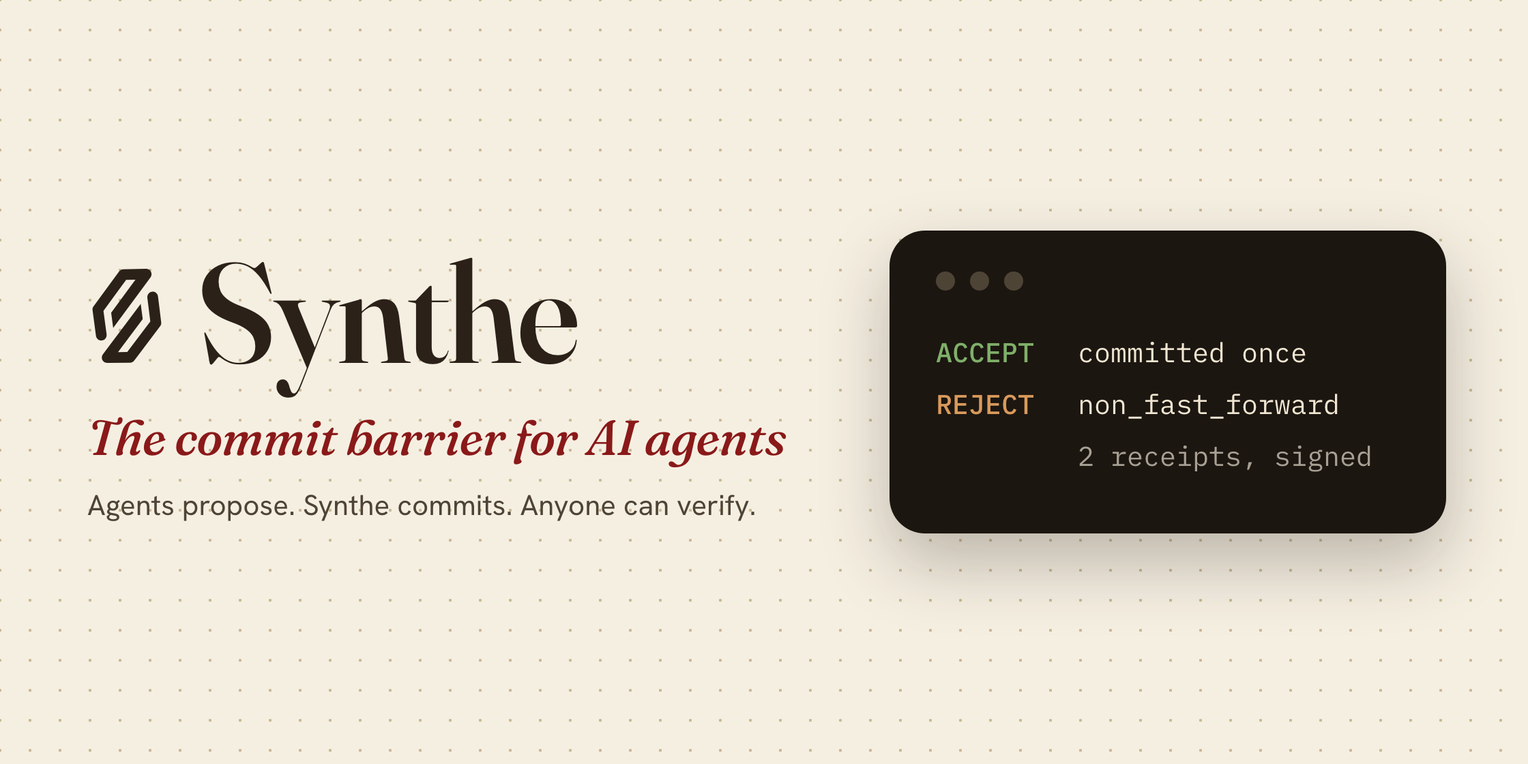
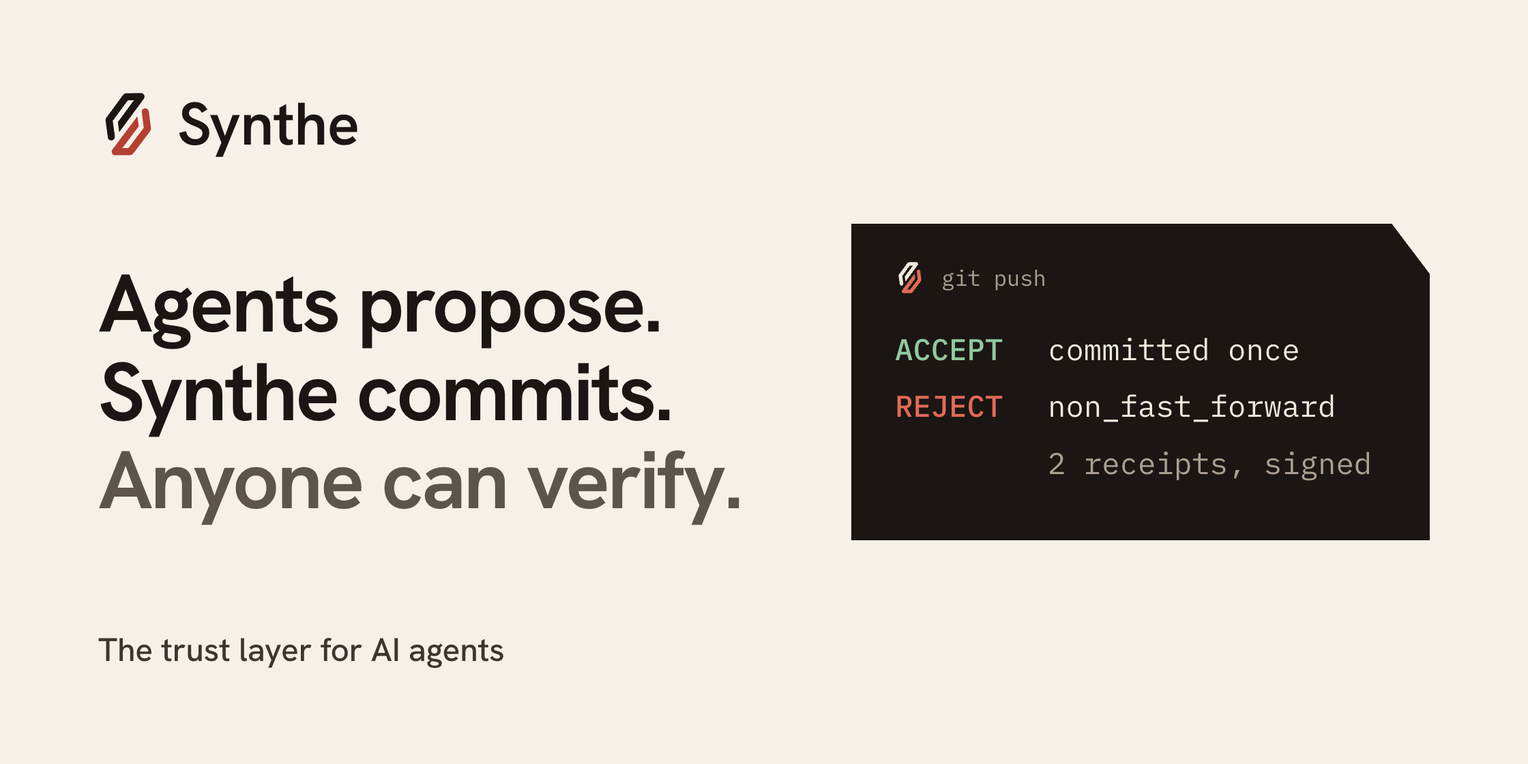
Site: new social card, and "trust layer for AI agents" as the category line
Social card
- og-image.png and tools/og-image.html redrawn in the new design system: cream
  background, two-color mark (ink top, coral bottom), the motto as three lines
  of type, and an ink receipt card with one corner cut at the slot angle.

Category line
- "The commit barrier for AI agents" becomes "The trust layer for AI agents" in
  the footer on every page, homepage title, description and structured data,
  the card's alt text, llms.txt, llms-full.txt, status.html, the playbook and
  tools/apply_chrome.py.
- "Commit barrier" stays as the name of the mechanism (docs section, race demo,
  how-it-works description, quiz). The changelog entry in log.html is history
  and is unchanged apart from its footer.

check_site.py: 0 errors on 16 pages; facts check passes.

diff --git a/tools/og-image.html b/tools/og-image.html
@@ -1,48 +1,47 @@
 <!doctype html>
-<html lang="en">
+<html lang="en" data-theme="light">
 <head>
 <meta charset="utf-8" />
 <meta name="robots" content="noindex" />
 <title>Social card source</title>
-<!-- Source for /og-image.png. Render at 1120x560 CSS px with device scale 2:
+<!-- Source for /og-image.png. Render at 1120x560 CSS px with device scale 2 against the local server
+     (python3 tools/serve.py), so the self-hosted fonts and the site's tokens load:
      "/Applications/Google Chrome.app/Contents/MacOS/Google Chrome" --headless=new --hide-scrollbars \
        --window-size=1120,560 --force-device-scale-factor=2 --screenshot=og-image.png \
-       http://localhost:8790/tools/og-image.html -->
+       http://localhost:8790/tools/og-image.html
+     Two colors carry meaning: ink is the agent's half of the mark, coral is yours. The card uses the site's
+     light tokens (--bg, --ink, --muted, --agent, --human) and the dark mode's status colors on the ink card. -->
 <link rel="stylesheet" href="/site.css?v=27f2e1ec" />
 <style>
   html, body { margin: 0; width: 1120px; height: 560px; overflow: hidden; }
-  body {
-    background-color: #f5efe2;
-    background-image: radial-gradient(#c9b994 1px, transparent 1.2px);
-    background-size: 22px 22px;
-    background-position: 11px 11px;
-    color: #2b2118;
-    font-family: "Hanken Grotesk", sans-serif;
-    -webkit-font-smoothing: antialiased;
-  }
-  .card { position: absolute; inset: 0; display: grid; grid-template-columns: 548px 1fr; align-items: center; padding: 0 60px; gap: 44px; }
-  .lockup { display: flex; align-items: center; gap: 18px; font-family: "Fraunces", Georgia, serif; font-weight: 560; font-size: 104px; line-height: 1; letter-spacing: -0.02em; }
-  .lockup svg { width: 66px; height: 70px; flex: none; margin-top: 6px; }
-  .tagline { margin: 18px 0 0 4px; font-family: "Fraunces", Georgia, serif; font-style: italic; font-weight: 500; font-size: 36px; color: #8a1919; letter-spacing: -0.01em; }
-  .motto { margin: 14px 0 0 4px; font-size: 21px; color: #4e4436; }
-  .term { background: #1c1611; border-radius: 26px; padding: 30px 34px 38px; box-shadow: 0 22px 50px rgba(43, 33, 24, 0.28); font-family: "IBM Plex Mono", monospace; font-size: 20px; line-height: 1.9; color: #f0e6d2; }
-  .dots { display: flex; gap: 11px; margin-bottom: 26px; }
-  .dots i { width: 14px; height: 14px; border-radius: 50%; background: #4e4436; }
-  .row { display: grid; grid-template-columns: 104px 1fr; white-space: nowrap; }
-  .ok { color: #7fb069; font-weight: 500; }
-  .no { color: #d99a5b; font-weight: 500; }
-  .dim { color: #a8a094; }
+  body { background: var(--bg); color: var(--ink); font-family: var(--sans); -webkit-font-smoothing: antialiased; }
+  .card { position: absolute; inset: 0; display: grid; grid-template-columns: 1fr 424px; align-items: center; padding: 0 72px; gap: 56px; }
+  .left { display: flex; flex-direction: column; height: 424px; justify-content: space-between; }
+  .lockup { display: flex; align-items: center; gap: 14px; font-weight: 600; font-size: 44px; line-height: 1; letter-spacing: -0.01em; }
+  .lockup svg { width: 44px; height: 46px; flex: none; }
+  h1 { margin: 0; font-weight: 600; font-size: 60px; line-height: 1.08; letter-spacing: -0.03em; }
+  h1 span { color: var(--muted); }
+  .cat { margin: 0; font-size: 24px; font-weight: 500; letter-spacing: -0.005em; color: var(--ink-soft); }
+  .term { background: #1b1613; color: #f2eadf; padding: 28px 32px 36px; font-family: var(--mono); font-size: 22px; line-height: 1.9;
+    clip-path: polygon(0 0, calc(100% - 28px) 0, 100% 37px, 100% 100%, 0 100%); }
+  .head { display: flex; align-items: center; gap: 12px; margin-bottom: 20px; font-size: 16px; color: #ab9f92; line-height: 1; }
+  .head svg { width: 22px; height: 23px; }
+  .head svg .a { fill: #f2eadf; } .head svg .b { fill: #e06a57; }
+  .row { display: grid; grid-template-columns: 112px 1fr; white-space: nowrap; }
+  .ok { color: #8fc9a0; font-weight: 500; }
+  .no { color: #e06a57; font-weight: 500; }
+  .dim { color: #ab9f92; }
 </style>
 </head>
 <body>
   <div class="card">
-    <div>
-      <div class="lockup"><svg viewBox="0 0 275 290" aria-hidden="true"><g fill="currentColor"><path d="M 64.894 261.544 155.983 140.236 179.779 108.392 185.927 154.879 110.451 255.747 138.531 255.614 209.078 162.002 200.172 91.235 C 199.408 85.166 200.816 79.553 205.121 75.642 209.828 71.368 216.229 70.134 221.964 72.262 228.322 74.621 231.877 79.955 232.693 86.566 L 242.414 165.286 C 242.975 169.836 241.259 173.994 238.587 177.533 L 160.448 281.001 C 157.254 285.231 152.542 288.273 147.064 288.315 L 78.043 288.836 C 73.418 288.871 69.030 287.434 65.849 284.248 59.453 277.843 59.605 268.588 64.894 261.544"/><path d="M 135.339 35.105 119.916 56.166 65.976 129.689 75.562 201.351 C 76.765 210.340 71.240 218.418 62.432 220.185 53.895 221.859 45.295 216.549 43.298 207.725 L 32.651 127.593 C 32.196 124.170 32.576 120.045 34.689 117.171 L 83.489 50.805 113.299 10.126 C 116.532 5.714 121.004 2.677 126.682 2.564 L 196.616 1.166 C 203.544 1.028 209.471 5.555 211.787 11.932 213.849 17.594 212.818 23.577 209.138 28.271 L 95.676 182.179 89.465 135.537 144.852 60.334 163.745 34.614 Z"/></g></svg>Synthe</div>
-      <p class="tagline">The commit barrier for AI agents</p>
-      <p class="motto">Agents propose. Synthe commits. Anyone can verify.</p>
+    <div class="left">
+      <div class="lockup"><svg class="mark" viewBox="0 0 275 290" aria-hidden="true"><path class="half a" d="M 135.339 35.105 119.916 56.166 65.976 129.689 75.562 201.351 C 76.765 210.340 71.240 218.418 62.432 220.185 53.895 221.859 45.295 216.549 43.298 207.725 L 32.651 127.593 C 32.196 124.170 32.576 120.045 34.689 117.171 L 83.489 50.805 113.299 10.126 C 116.532 5.714 121.004 2.677 126.682 2.564 L 196.616 1.166 C 203.544 1.028 209.471 5.555 211.787 11.932 213.849 17.594 212.818 23.577 209.138 28.271 L 95.676 182.179 89.465 135.537 144.852 60.334 163.745 34.614 Z"/><path class="half b" d="M 64.894 261.544 155.983 140.236 179.779 108.392 185.927 154.879 110.451 255.747 138.531 255.614 209.078 162.002 200.172 91.235 C 199.408 85.166 200.816 79.553 205.121 75.642 209.828 71.368 216.229 70.134 221.964 72.262 228.322 74.621 231.877 79.955 232.693 86.566 L 242.414 165.286 C 242.975 169.836 241.259 173.994 238.587 177.533 L 160.448 281.001 C 157.254 285.231 152.542 288.273 147.064 288.315 L 78.043 288.836 C 73.418 288.871 69.030 287.434 65.849 284.248 59.453 277.843 59.605 268.588 64.894 261.544"/></svg>Synthe</div>
+      <h1>Agents propose.<br>Synthe commits.<br><span>Anyone can verify.</span></h1>
+      <p class="cat">The trust layer for AI agents</p>
     </div>
     <div class="term" aria-hidden="true">
-      <div class="dots"><i></i><i></i><i></i></div>
+      <div class="head"><svg class="mark" viewBox="0 0 275 290"><path class="half a" d="M 135.339 35.105 119.916 56.166 65.976 129.689 75.562 201.351 C 76.765 210.340 71.240 218.418 62.432 220.185 53.895 221.859 45.295 216.549 43.298 207.725 L 32.651 127.593 C 32.196 124.170 32.576 120.045 34.689 117.171 L 83.489 50.805 113.299 10.126 C 116.532 5.714 121.004 2.677 126.682 2.564 L 196.616 1.166 C 203.544 1.028 209.471 5.555 211.787 11.932 213.849 17.594 212.818 23.577 209.138 28.271 L 95.676 182.179 89.465 135.537 144.852 60.334 163.745 34.614 Z"/><path class="half b" d="M 64.894 261.544 155.983 140.236 179.779 108.392 185.927 154.879 110.451 255.747 138.531 255.614 209.078 162.002 200.172 91.235 C 199.408 85.166 200.816 79.553 205.121 75.642 209.828 71.368 216.229 70.134 221.964 72.262 228.322 74.621 231.877 79.955 232.693 86.566 L 242.414 165.286 C 242.975 169.836 241.259 173.994 238.587 177.533 L 160.448 281.001 C 157.254 285.231 152.542 288.273 147.064 288.315 L 78.043 288.836 C 73.418 288.871 69.030 287.434 65.849 284.248 59.453 277.843 59.605 268.588 64.894 261.544"/></svg>git push</div>
       <div class="row"><span class="ok">ACCEPT</span><span>committed once</span></div>
       <div class="row"><span class="no">REJECT</span><span>non_fast_forward</span></div>
       <div class="row"><span></span><span class="dim">2 receipts, signed</span></div>

diff --git a/index.html b/index.html
@@ -5,18 +5,18 @@
     <meta http-equiv="Content-Security-Policy" content="default-src 'self'; script-src 'self' 'unsafe-inline'; style-src 'self' 'unsafe-inline'; img-src 'self' data:; font-src 'self'; connect-src 'self' https://formspree.io; form-action 'self' https://formspree.io mailto:; base-uri 'self'; object-src 'none'; upgrade-insecure-requests" />
     <meta name="viewport" content="width=device-width, initial-scale=1, viewport-fit=cover" />
     <meta name="color-scheme" content="light dark" />
-    <meta name="description" content="Synthe is the commit barrier for AI agents. Agents propose, you approve, and Synthe commits exactly that change, once, with a signed receipt anyone can verify." />
+    <meta name="description" content="Synthe is the trust layer for AI agents. Agents propose, you approve, and Synthe commits exactly that change, once, with a signed receipt anyone can verify." />
     <link rel="canonical" href="https://synthe.live/" />
     <link rel="icon" href="/favicon.svg" type="image/svg+xml" />
     <link rel="icon" href="/favicon-32x32.png" type="image/png" sizes="32x32" />
     <link rel="apple-touch-icon" href="/apple-touch-icon.png" />
     <title>Synthe: let AI agents ship without the keys</title>
-    <meta property="og:title" content="Synthe: the commit barrier for AI agents" />
+    <meta property="og:title" content="Synthe: the trust layer for AI agents" />
     <meta property="og:description" content="Agents propose. Synthe commits. Anyone can verify. Your agents never hold the keys." />
     <meta property="og:image" content="https://synthe.live/og-image.png" />
     <meta property="og:image:width" content="2240" />
     <meta property="og:image:height" content="1120" />
-    <meta property="og:image:alt" content="Synthe: the commit barrier for AI agents. A receipt for every allow and every deny." />
+    <meta property="og:image:alt" content="Synthe: the trust layer for AI agents. A receipt for every allow and every deny." />
     <meta property="og:url" content="https://synthe.live/" />
     <meta property="og:type" content="website" />
     <meta property="og:site_name" content="Synthe" />
@@ -32,7 +32,7 @@
       "url": "https://synthe.live/",
       "logo": "https://synthe.live/apple-touch-icon.png",
       "email": "rohansiddam@synthe.live",
-      "description": "The commit barrier for AI agents. Agents propose. Synthe commits. Anyone can verify.",
+      "description": "The trust layer for AI agents. Agents propose. Synthe commits. Anyone can verify.",
       "founder": [
         {
           "@type": "Person",
@@ -482,7 +482,7 @@ cd ~/repo &amp;&amp; openclaw tui</code><button class="copy" type="button"><svg 
     </main>
       <footer class="site-foot">
         <p class="footer-brand"><svg class="footer-logo" viewBox="0 0 275 290" aria-hidden="true"><path class="a" d="M 135.339 35.105 119.916 56.166 65.976 129.689 75.562 201.351 C 76.765 210.340 71.240 218.418 62.432 220.185 53.895 221.859 45.295 216.549 43.298 207.725 L 32.651 127.593 C 32.196 124.170 32.576 120.045 34.689 117.171 L 83.489 50.805 113.299 10.126 C 116.532 5.714 121.004 2.677 126.682 2.564 L 196.616 1.166 C 203.544 1.028 209.471 5.555 211.787 11.932 213.849 17.594 212.818 23.577 209.138 28.271 L 95.676 182.179 89.465 135.537 144.852 60.334 163.745 34.614 Z"/><path class="b" d="M 64.894 261.544 155.983 140.236 179.779 108.392 185.927 154.879 110.451 255.747 138.531 255.614 209.078 162.002 200.172 91.235 C 199.408 85.166 200.816 79.553 205.121 75.642 209.828 71.368 216.229 70.134 221.964 72.262 228.322 74.621 231.877 79.955 232.693 86.566 L 242.414 165.286 C 242.975 169.836 241.259 173.994 238.587 177.533 L 160.448 281.001 C 157.254 285.231 152.542 288.273 147.064 288.315 L 78.043 288.836 C 73.418 288.871 69.030 287.434 65.849 284.248 59.453 277.843 59.605 268.588 64.894 261.544"/></svg>Synthe</p>
-        <p class="footer-line">The commit barrier for AI agents. Agents propose. You approve. Synthe commits, and anyone can verify the receipt.</p>
+        <p class="footer-line">The trust layer for AI agents. Agents propose. You approve. Synthe commits, and anyone can verify the receipt.</p>
         <nav class="footer-nav" aria-label="Footer">
           <a href="/how.html">How it works</a>
           <a href="/status.html">Security and limits</a>

diff --git a/status.html b/status.html
@@ -119,7 +119,7 @@
 
         <h2 id="status">Project <em>status</em></h2>
         <ul class="facts">
-          <li><span class="k">Stage</span><span class="v"><strong>Early.</strong> Synthe is the commit barrier for AI agents. Its checker, integrations and commit broker are published at <a class="textlink" href="https://github.com/rohansiddam/Synthe">github.com/rohansiddam/Synthe</a>. The spec, checker, clients and integrations are open source under Apache-2.0. The commit broker is source-available under FSL-1.1 and in beta, with design partners helping shape it (<a class="textlink" href="https://github.com/rohansiddam/Synthe/blob/main/LICENSING.md">how it's licensed</a>).</span></li>
+          <li><span class="k">Stage</span><span class="v"><strong>Early.</strong> Synthe is the trust layer for AI agents. Its checker, integrations and commit broker are published at <a class="textlink" href="https://github.com/rohansiddam/Synthe">github.com/rohansiddam/Synthe</a>. The spec, checker, clients and integrations are open source under Apache-2.0. The commit broker is source-available under FSL-1.1 and in beta, with design partners helping shape it (<a class="textlink" href="https://github.com/rohansiddam/Synthe/blob/main/LICENSING.md">how it's licensed</a>).</span></li>
           <li><span class="k">Public today</span><span class="v">The checker, v<span data-fact="checker_version">0.5</span>: signed handoffs, approvals that pin their target, pinned evidence, wait-for dependencies, exclusive paths, and an exactly-once claim ledger. <span data-fact="tests_passed">753</span> public tests pass.</span></li>
           <li><span class="k">Public beta</span><span class="v">The commit broker, public since October 7, 2026. It holds the credentials, re-checks each action at the moment of commit, pushes with compare-and-swap, and signs a receipt for every allow and every deny. <code>git_push</code> ships first.</span></li>
           <li><span class="k">Proven in beta</span><span class="v">On <span data-fact="beta_verified_date">October 7, 2026</span>, on a real Mac with real GitHub: the broker ran as its own hidden user and the agent in its own account with no GitHub access, and the setup check passed all <span data-fact="beta_doctor_checks">8</span> of its checks. A live red team of <span data-fact="beta_redteam_attacks">33</span> attacks from the agent's account was refused or contained (<span data-fact="beta_redteam_refused">33</span> of <span data-fact="beta_redteam_attacks">33</span>), each refusal with a signed receipt.</span></li>
@@ -165,7 +165,7 @@
       </main>
       <footer class="site-foot">
         <p class="footer-brand"><svg class="footer-logo" viewBox="0 0 275 290" aria-hidden="true"><path class="a" d="M 135.339 35.105 119.916 56.166 65.976 129.689 75.562 201.351 C 76.765 210.340 71.240 218.418 62.432 220.185 53.895 221.859 45.295 216.549 43.298 207.725 L 32.651 127.593 C 32.196 124.170 32.576 120.045 34.689 117.171 L 83.489 50.805 113.299 10.126 C 116.532 5.714 121.004 2.677 126.682 2.564 L 196.616 1.166 C 203.544 1.028 209.471 5.555 211.787 11.932 213.849 17.594 212.818 23.577 209.138 28.271 L 95.676 182.179 89.465 135.537 144.852 60.334 163.745 34.614 Z"/><path class="b" d="M 64.894 261.544 155.983 140.236 179.779 108.392 185.927 154.879 110.451 255.747 138.531 255.614 209.078 162.002 200.172 91.235 C 199.408 85.166 200.816 79.553 205.121 75.642 209.828 71.368 216.229 70.134 221.964 72.262 228.322 74.621 231.877 79.955 232.693 86.566 L 242.414 165.286 C 242.975 169.836 241.259 173.994 238.587 177.533 L 160.448 281.001 C 157.254 285.231 152.542 288.273 147.064 288.315 L 78.043 288.836 C 73.418 288.871 69.030 287.434 65.849 284.248 59.453 277.843 59.605 268.588 64.894 261.544"/></svg>Synthe</p>
-        <p class="footer-line">The commit barrier for AI agents. Agents propose. You approve. Synthe commits, and anyone can verify the receipt.</p>
+        <p class="footer-line">The trust layer for AI agents. Agents propose. You approve. Synthe commits, and anyone can verify the receipt.</p>
         <nav class="footer-nav" aria-label="Footer">
           <a href="/how.html">How it works</a>
           <a href="/status.html">Security and limits</a>

diff --git a/404.html b/404.html
@@ -131,7 +131,7 @@
       </main>
       <footer class="site-foot">
         <p class="footer-brand"><svg class="footer-logo" viewBox="0 0 275 290" aria-hidden="true"><path class="a" d="M 135.339 35.105 119.916 56.166 65.976 129.689 75.562 201.351 C 76.765 210.340 71.240 218.418 62.432 220.185 53.895 221.859 45.295 216.549 43.298 207.725 L 32.651 127.593 C 32.196 124.170 32.576 120.045 34.689 117.171 L 83.489 50.805 113.299 10.126 C 116.532 5.714 121.004 2.677 126.682 2.564 L 196.616 1.166 C 203.544 1.028 209.471 5.555 211.787 11.932 213.849 17.594 212.818 23.577 209.138 28.271 L 95.676 182.179 89.465 135.537 144.852 60.334 163.745 34.614 Z"/><path class="b" d="M 64.894 261.544 155.983 140.236 179.779 108.392 185.927 154.879 110.451 255.747 138.531 255.614 209.078 162.002 200.172 91.235 C 199.408 85.166 200.816 79.553 205.121 75.642 209.828 71.368 216.229 70.134 221.964 72.262 228.322 74.621 231.877 79.955 232.693 86.566 L 242.414 165.286 C 242.975 169.836 241.259 173.994 238.587 177.533 L 160.448 281.001 C 157.254 285.231 152.542 288.273 147.064 288.315 L 78.043 288.836 C 73.418 288.871 69.030 287.434 65.849 284.248 59.453 277.843 59.605 268.588 64.894 261.544"/></svg>Synthe</p>
-        <p class="footer-line">The commit barrier for AI agents. Agents propose. You approve. Synthe commits, and anyone can verify the receipt.</p>
+        <p class="footer-line">The trust layer for AI agents. Agents propose. You approve. Synthe commits, and anyone can verify the receipt.</p>
         <nav class="footer-nav" aria-label="Footer">
           <a href="/how.html">How it works</a>
           <a href="/status.html">Security and limits</a>

diff --git a/anatomy.html b/anatomy.html
@@ -222,7 +222,7 @@
       </main>
       <footer class="site-foot">
         <p class="footer-brand"><svg class="footer-logo" viewBox="0 0 275 290" aria-hidden="true"><path class="a" d="M 135.339 35.105 119.916 56.166 65.976 129.689 75.562 201.351 C 76.765 210.340 71.240 218.418 62.432 220.185 53.895 221.859 45.295 216.549 43.298 207.725 L 32.651 127.593 C 32.196 124.170 32.576 120.045 34.689 117.171 L 83.489 50.805 113.299 10.126 C 116.532 5.714 121.004 2.677 126.682 2.564 L 196.616 1.166 C 203.544 1.028 209.471 5.555 211.787 11.932 213.849 17.594 212.818 23.577 209.138 28.271 L 95.676 182.179 89.465 135.537 144.852 60.334 163.745 34.614 Z"/><path class="b" d="M 64.894 261.544 155.983 140.236 179.779 108.392 185.927 154.879 110.451 255.747 138.531 255.614 209.078 162.002 200.172 91.235 C 199.408 85.166 200.816 79.553 205.121 75.642 209.828 71.368 216.229 70.134 221.964 72.262 228.322 74.621 231.877 79.955 232.693 86.566 L 242.414 165.286 C 242.975 169.836 241.259 173.994 238.587 177.533 L 160.448 281.001 C 157.254 285.231 152.542 288.273 147.064 288.315 L 78.043 288.836 C 73.418 288.871 69.030 287.434 65.849 284.248 59.453 277.843 59.605 268.588 64.894 261.544"/></svg>Synthe</p>
-        <p class="footer-line">The commit barrier for AI agents. Agents propose. You approve. Synthe commits, and anyone can verify the receipt.</p>
+        <p class="footer-line">The trust layer for AI agents. Agents propose. You approve. Synthe commits, and anyone can verify the receipt.</p>
         <nav class="footer-nav" aria-label="Footer">
           <a href="/how.html">How it works</a>
           <a href="/status.html">Security and limits</a>

diff --git a/benchmarks.html b/benchmarks.html
@@ -145,7 +145,7 @@
       </main>
       <footer class="site-foot">
         <p class="footer-brand"><svg class="footer-logo" viewBox="0 0 275 290" aria-hidden="true"><path class="a" d="M 135.339 35.105 119.916 56.166 65.976 129.689 75.562 201.351 C 76.765 210.340 71.240 218.418 62.432 220.185 53.895 221.859 45.295 216.549 43.298 207.725 L 32.651 127.593 C 32.196 124.170 32.576 120.045 34.689 117.171 L 83.489 50.805 113.299 10.126 C 116.532 5.714 121.004 2.677 126.682 2.564 L 196.616 1.166 C 203.544 1.028 209.471 5.555 211.787 11.932 213.849 17.594 212.818 23.577 209.138 28.271 L 95.676 182.179 89.465 135.537 144.852 60.334 163.745 34.614 Z"/><path class="b" d="M 64.894 261.544 155.983 140.236 179.779 108.392 185.927 154.879 110.451 255.747 138.531 255.614 209.078 162.002 200.172 91.235 C 199.408 85.166 200.816 79.553 205.121 75.642 209.828 71.368 216.229 70.134 221.964 72.262 228.322 74.621 231.877 79.955 232.693 86.566 L 242.414 165.286 C 242.975 169.836 241.259 173.994 238.587 177.533 L 160.448 281.001 C 157.254 285.231 152.542 288.273 147.064 288.315 L 78.043 288.836 C 73.418 288.871 69.030 287.434 65.849 284.248 59.453 277.843 59.605 268.588 64.894 261.544"/></svg>Synthe</p>
-        <p class="footer-line">The commit barrier for AI agents. Agents propose. You approve. Synthe commits, and anyone can verify the receipt.</p>
+        <p class="footer-line">The trust layer for AI agents. Agents propose. You approve. Synthe commits, and anyone can verify the receipt.</p>
         <nav class="footer-nav" aria-label="Footer">
           <a href="/how.html">How it works</a>
           <a href="/status.html">Security and limits</a>

diff --git a/docs.html b/docs.html
@@ -398,7 +398,7 @@
       </main>
       <footer class="site-foot">
         <p class="footer-brand"><svg class="footer-logo" viewBox="0 0 275 290" aria-hidden="true"><path class="a" d="M 135.339 35.105 119.916 56.166 65.976 129.689 75.562 201.351 C 76.765 210.340 71.240 218.418 62.432 220.185 53.895 221.859 45.295 216.549 43.298 207.725 L 32.651 127.593 C 32.196 124.170 32.576 120.045 34.689 117.171 L 83.489 50.805 113.299 10.126 C 116.532 5.714 121.004 2.677 126.682 2.564 L 196.616 1.166 C 203.544 1.028 209.471 5.555 211.787 11.932 213.849 17.594 212.818 23.577 209.138 28.271 L 95.676 182.179 89.465 135.537 144.852 60.334 163.745 34.614 Z"/><path class="b" d="M 64.894 261.544 155.983 140.236 179.779 108.392 185.927 154.879 110.451 255.747 138.531 255.614 209.078 162.002 200.172 91.235 C 199.408 85.166 200.816 79.553 205.121 75.642 209.828 71.368 216.229 70.134 221.964 72.262 228.322 74.621 231.877 79.955 232.693 86.566 L 242.414 165.286 C 242.975 169.836 241.259 173.994 238.587 177.533 L 160.448 281.001 C 157.254 285.231 152.542 288.273 147.064 288.315 L 78.043 288.836 C 73.418 288.871 69.030 287.434 65.849 284.248 59.453 277.843 59.605 268.588 64.894 261.544"/></svg>Synthe</p>
-        <p class="footer-line">The commit barrier for AI agents. Agents propose. You approve. Synthe commits, and anyone can verify the receipt.</p>
+        <p class="footer-line">The trust layer for AI agents. Agents propose. You approve. Synthe commits, and anyone can verify the receipt.</p>
         <nav class="footer-nav" aria-label="Footer">
           <a href="/how.html">How it works</a>
           <a href="/status.html">Security and limits</a>

diff --git a/forge.html b/forge.html
@@ -223,7 +223,7 @@
       </main>
       <footer class="site-foot">
         <p class="footer-brand"><svg class="footer-logo" viewBox="0 0 275 290" aria-hidden="true"><path class="a" d="M 135.339 35.105 119.916 56.166 65.976 129.689 75.562 201.351 C 76.765 210.340 71.240 218.418 62.432 220.185 53.895 221.859 45.295 216.549 43.298 207.725 L 32.651 127.593 C 32.196 124.170 32.576 120.045 34.689 117.171 L 83.489 50.805 113.299 10.126 C 116.532 5.714 121.004 2.677 126.682 2.564 L 196.616 1.166 C 203.544 1.028 209.471 5.555 211.787 11.932 213.849 17.594 212.818 23.577 209.138 28.271 L 95.676 182.179 89.465 135.537 144.852 60.334 163.745 34.614 Z"/><path class="b" d="M 64.894 261.544 155.983 140.236 179.779 108.392 185.927 154.879 110.451 255.747 138.531 255.614 209.078 162.002 200.172 91.235 C 199.408 85.166 200.816 79.553 205.121 75.642 209.828 71.368 216.229 70.134 221.964 72.262 228.322 74.621 231.877 79.955 232.693 86.566 L 242.414 165.286 C 242.975 169.836 241.259 173.994 238.587 177.533 L 160.448 281.001 C 157.254 285.231 152.542 288.273 147.064 288.315 L 78.043 288.836 C 73.418 288.871 69.030 287.434 65.849 284.248 59.453 277.843 59.605 268.588 64.894 261.544"/></svg>Synthe</p>
-        <p class="footer-line">The commit barrier for AI agents. Agents propose. You approve. Synthe commits, and anyone can verify the receipt.</p>
+        <p class="footer-line">The trust layer for AI agents. Agents propose. You approve. Synthe commits, and anyone can verify the receipt.</p>
         <nav class="footer-nav" aria-label="Footer">
           <a href="/how.html">How it works</a>
           <a href="/status.html">Security and limits</a>

diff --git a/how.html b/how.html
@@ -379,7 +379,7 @@
       </main>
       <footer class="site-foot">
         <p class="footer-brand"><svg class="footer-logo" viewBox="0 0 275 290" aria-hidden="true"><path class="a" d="M 135.339 35.105 119.916 56.166 65.976 129.689 75.562 201.351 C 76.765 210.340 71.240 218.418 62.432 220.185 53.895 221.859 45.295 216.549 43.298 207.725 L 32.651 127.593 C 32.196 124.170 32.576 120.045 34.689 117.171 L 83.489 50.805 113.299 10.126 C 116.532 5.714 121.004 2.677 126.682 2.564 L 196.616 1.166 C 203.544 1.028 209.471 5.555 211.787 11.932 213.849 17.594 212.818 23.577 209.138 28.271 L 95.676 182.179 89.465 135.537 144.852 60.334 163.745 34.614 Z"/><path class="b" d="M 64.894 261.544 155.983 140.236 179.779 108.392 185.927 154.879 110.451 255.747 138.531 255.614 209.078 162.002 200.172 91.235 C 199.408 85.166 200.816 79.553 205.121 75.642 209.828 71.368 216.229 70.134 221.964 72.262 228.322 74.621 231.877 79.955 232.693 86.566 L 242.414 165.286 C 242.975 169.836 241.259 173.994 238.587 177.533 L 160.448 281.001 C 157.254 285.231 152.542 288.273 147.064 288.315 L 78.043 288.836 C 73.418 288.871 69.030 287.434 65.849 284.248 59.453 277.843 59.605 268.588 64.894 261.544"/></svg>Synthe</p>
-        <p class="footer-line">The commit barrier for AI agents. Agents propose. You approve. Synthe commits, and anyone can verify the receipt.</p>
+        <p class="footer-line">The trust layer for AI agents. Agents propose. You approve. Synthe commits, and anyone can verify the receipt.</p>
         <nav class="footer-nav" aria-label="Footer">
           <a href="/how.html">How it works</a>
           <a href="/status.html">Security and limits</a>

diff --git a/integrations.html b/integrations.html
@@ -167,7 +167,7 @@
       </main>
       <footer class="site-foot">
         <p class="footer-brand"><svg class="footer-logo" viewBox="0 0 275 290" aria-hidden="true"><path class="a" d="M 135.339 35.105 119.916 56.166 65.976 129.689 75.562 201.351 C 76.765 210.340 71.240 218.418 62.432 220.185 53.895 221.859 45.295 216.549 43.298 207.725 L 32.651 127.593 C 32.196 124.170 32.576 120.045 34.689 117.171 L 83.489 50.805 113.299 10.126 C 116.532 5.714 121.004 2.677 126.682 2.564 L 196.616 1.166 C 203.544 1.028 209.471 5.555 211.787 11.932 213.849 17.594 212.818 23.577 209.138 28.271 L 95.676 182.179 89.465 135.537 144.852 60.334 163.745 34.614 Z"/><path class="b" d="M 64.894 261.544 155.983 140.236 179.779 108.392 185.927 154.879 110.451 255.747 138.531 255.614 209.078 162.002 200.172 91.235 C 199.408 85.166 200.816 79.553 205.121 75.642 209.828 71.368 216.229 70.134 221.964 72.262 228.322 74.621 231.877 79.955 232.693 86.566 L 242.414 165.286 C 242.975 169.836 241.259 173.994 238.587 177.533 L 160.448 281.001 C 157.254 285.231 152.542 288.273 147.064 288.315 L 78.043 288.836 C 73.418 288.871 69.030 287.434 65.849 284.248 59.453 277.843 59.605 268.588 64.894 261.544"/></svg>Synthe</p>
-        <p class="footer-line">The commit barrier for AI agents. Agents propose. You approve. Synthe commits, and anyone can verify the receipt.</p>
+        <p class="footer-line">The trust layer for AI agents. Agents propose. You approve. Synthe commits, and anyone can verify the receipt.</p>
         <nav class="footer-nav" aria-label="Footer">
           <a href="/how.html">How it works</a>
           <a href="/status.html">Security and limits</a>

diff --git a/log.html b/log.html
@@ -173,7 +173,7 @@
       </main>
       <footer class="site-foot">
         <p class="footer-brand"><svg class="footer-logo" viewBox="0 0 275 290" aria-hidden="true"><path class="a" d="M 135.339 35.105 119.916 56.166 65.976 129.689 75.562 201.351 C 76.765 210.340 71.240 218.418 62.432 220.185 53.895 221.859 45.295 216.549 43.298 207.725 L 32.651 127.593 C 32.196 124.170 32.576 120.045 34.689 117.171 L 83.489 50.805 113.299 10.126 C 116.532 5.714 121.004 2.677 126.682 2.564 L 196.616 1.166 C 203.544 1.028 209.471 5.555 211.787 11.932 213.849 17.594 212.818 23.577 209.138 28.271 L 95.676 182.179 89.465 135.537 144.852 60.334 163.745 34.614 Z"/><path class="b" d="M 64.894 261.544 155.983 140.236 179.779 108.392 185.927 154.879 110.451 255.747 138.531 255.614 209.078 162.002 200.172 91.235 C 199.408 85.166 200.816 79.553 205.121 75.642 209.828 71.368 216.229 70.134 221.964 72.262 228.322 74.621 231.877 79.955 232.693 86.566 L 242.414 165.286 C 242.975 169.836 241.259 173.994 238.587 177.533 L 160.448 281.001 C 157.254 285.231 152.542 288.273 147.064 288.315 L 78.043 288.836 C 73.418 288.871 69.030 287.434 65.849 284.248 59.453 277.843 59.605 268.588 64.894 261.544"/></svg>Synthe</p>
-        <p class="footer-line">The commit barrier for AI agents. Agents propose. You approve. Synthe commits, and anyone can verify the receipt.</p>
+        <p class="footer-line">The trust layer for AI agents. Agents propose. You approve. Synthe commits, and anyone can verify the receipt.</p>
         <nav class="footer-nav" aria-label="Footer">
           <a href="/how.html">How it works</a>
           <a href="/status.html">Security and limits</a>

diff --git a/playground.html b/playground.html
@@ -252,7 +252,7 @@
       </main>
       <footer class="site-foot">
         <p class="footer-brand"><svg class="footer-logo" viewBox="0 0 275 290" aria-hidden="true"><path class="a" d="M 135.339 35.105 119.916 56.166 65.976 129.689 75.562 201.351 C 76.765 210.340 71.240 218.418 62.432 220.185 53.895 221.859 45.295 216.549 43.298 207.725 L 32.651 127.593 C 32.196 124.170 32.576 120.045 34.689 117.171 L 83.489 50.805 113.299 10.126 C 116.532 5.714 121.004 2.677 126.682 2.564 L 196.616 1.166 C 203.544 1.028 209.471 5.555 211.787 11.932 213.849 17.594 212.818 23.577 209.138 28.271 L 95.676 182.179 89.465 135.537 144.852 60.334 163.745 34.614 Z"/><path class="b" d="M 64.894 261.544 155.983 140.236 179.779 108.392 185.927 154.879 110.451 255.747 138.531 255.614 209.078 162.002 200.172 91.235 C 199.408 85.166 200.816 79.553 205.121 75.642 209.828 71.368 216.229 70.134 221.964 72.262 228.322 74.621 231.877 79.955 232.693 86.566 L 242.414 165.286 C 242.975 169.836 241.259 173.994 238.587 177.533 L 160.448 281.001 C 157.254 285.231 152.542 288.273 147.064 288.315 L 78.043 288.836 C 73.418 288.871 69.030 287.434 65.849 284.248 59.453 277.843 59.605 268.588 64.894 261.544"/></svg>Synthe</p>
-        <p class="footer-line">The commit barrier for AI agents. Agents propose. You approve. Synthe commits, and anyone can verify the receipt.</p>
+        <p class="footer-line">The trust layer for AI agents. Agents propose. You approve. Synthe commits, and anyone can verify the receipt.</p>
         <nav class="footer-nav" aria-label="Footer">
           <a href="/how.html">How it works</a>
           <a href="/status.html">Security and limits</a>
